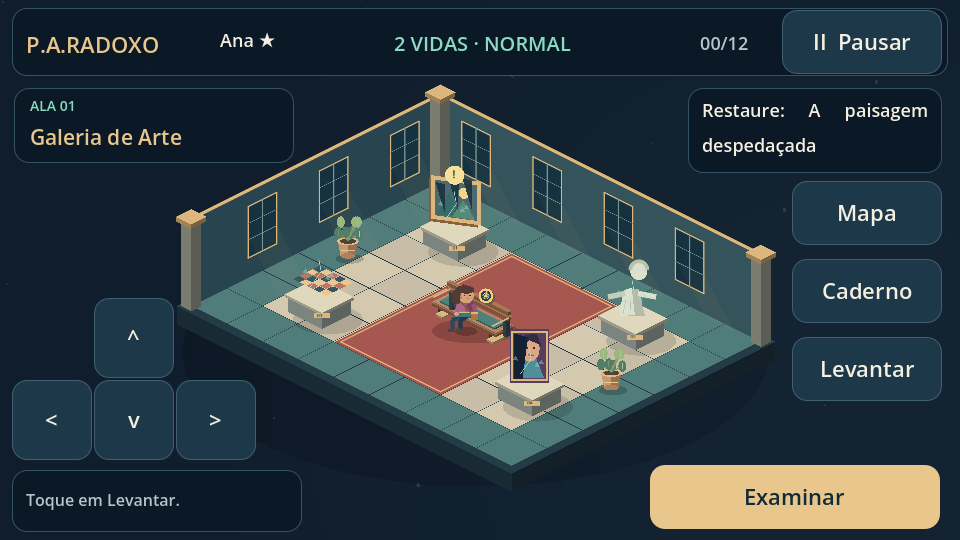
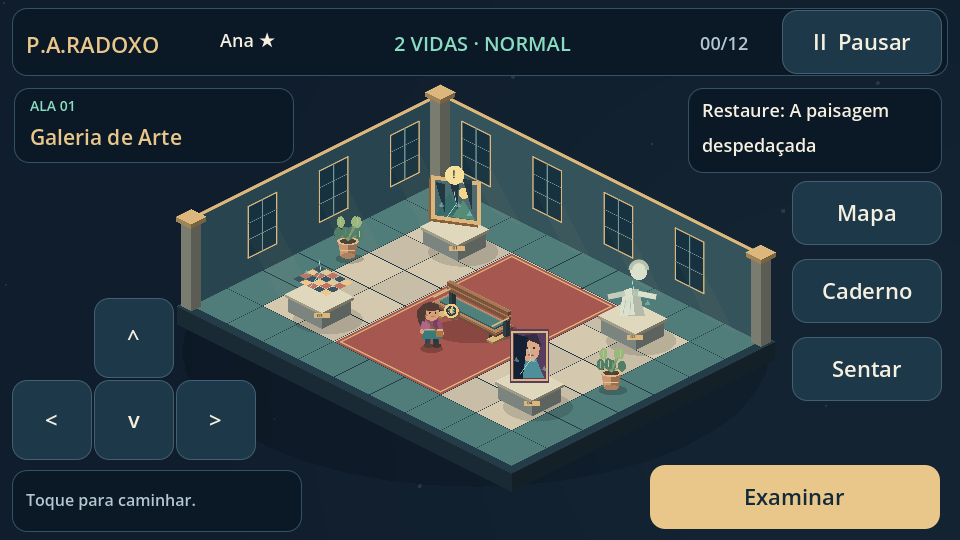
Padroniza capturas das galerias e esclarece a documentação

diff --git a/docs/ORGANIZACAO.md b/docs/ORGANIZACAO.md
@@ -8,7 +8,9 @@ Voltar ao [README](../README.md).
 | `game/web/` | Fontes dos auxiliares usados na exportação Web. |
 | `web/` | Recursos exportados do navegador: motor, PCK, imagens, estilos e scripts. |
 | `index.html` | Entrada online estável, com os recursos relativos a `web/`. |
+| `_headers` | Regras de cabeçalhos HTTP para hospedagens compatíveis com esse formato. |
 | `docs/` | Guia do jogador, desenvolvimento e manutenção. |
+| `docs/LEIA-ME.txt` | Guia rápido para abrir o jogo e consultar as informações essenciais. |
 | `docs/academico/` | Identificação do projeto e roteiro da apresentação. |
 | `docs/referencias/` | Gabaritos para consulta. |
 | `media/` | QR code e capturas usadas na apresentação do repositório. |
@@ -24,3 +26,7 @@ A branch principal permanece `gh-pages`. A publicação continua usando a raiz, 
 `build/` e `dist/` são saídas locais ignoradas pelo Git. Caches, credenciais, salvamentos pessoais e relatórios de trabalho não pertencem ao repositório. Os testes usam dados isolados. Código, imagens e composições próprias pertencem aos autores; consulte [licenças](../licenses/README.md).
 
 O nome estável `PARADOXO-Windows.zip` nas Releases mantém o download do README funcionando. Pacotes publicados de versões anteriores são registros das distribuições daquela data.
+
+O arquivo `_headers` permanece na raiz, que é a pasta publicada do site. Ele declara `X-Content-Type-Options: nosniff` e o tipo `application/octet-stream` para `/web/index.wasm.gz`. Essas regras são destinadas a provedores que interpretam esse formato, como a [Netlify](https://docs.netlify.com/manage/routing/headers/). Sua aplicação depende da hospedagem; o arquivo, por si só, não configura os cabeçalhos do GitHub Pages.
+
+`docs/LEIA-ME.txt` oferece uma consulta rápida de acesso e regras essenciais. O README principal apresenta o projeto, o QR code e os downloads; o Guia do jogador detalha os controles e a jornada.

diff --git a/README.md b/README.md
@@ -36,11 +36,13 @@ Explore as salas, resolva desafios de Progressão Aritmética e restaure **12 ob
 
 <table>
 <tr>
-<td width="33%"><img src="media/capturas/galeria-arte.png" alt="Galeria de Arte" width="100%"></td>
-<td width="33%"><img src="media/capturas/historia-natural.png" alt="História Natural" width="100%"></td>
-<td width="33%"><img src="media/capturas/invencoes.png" alt="Salão das Invenções" width="100%"></td>
+<td width="33%" align="center"><a href="media/capturas/galeria-arte.png"><img src="media/capturas/galeria-arte.png" alt="Galeria de Arte" width="100%"></a><br><strong>Galeria de Arte</strong></td>
+<td width="33%" align="center"><a href="media/capturas/historia-natural.png"><img src="media/capturas/historia-natural.png" alt="História Natural" width="100%"></a><br><strong>História Natural</strong></td>
+<td width="33%" align="center"><a href="media/capturas/invencoes.png"><img src="media/capturas/invencoes.png" alt="Salão das Invenções" width="100%"></a><br><strong>Salão das Invenções</strong></td>
 </tr>
 </table>
+
+Clique em uma captura para ver os detalhes em tamanho maior.
 
 ## Cada ala tem sua própria entrada
 
